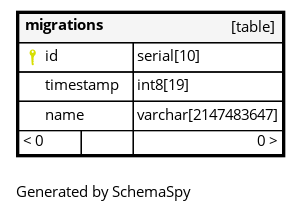
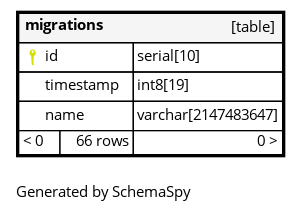
Deploying to gh-pages from @ bcgov/nr-site-registry@6c12e1b2809e61e2eaad4e0fd8826cbcae231017 🚀

Changed region(s): [[0.2392, 0.6226, 0.4485, 0.7075], [0.1794, 0.6226, 0.2093, 0.7358]]

diff --git a/schemaspy/sites/sites/index.html b/schemaspy/sites/sites/index.html
@@ -78,7 +78,7 @@
                         <div class="col-md-12">
                             <div class="callout callout-info">
                                 <h4>SchemaSpy Analysis of postgres.sites</h4>
-                                <p>Generated on Tue Jun 09 22:51 GMT 2026</p>
+                                <p>Generated on Thu Jun 11 17:38 GMT 2026</p>
                             </div>
                         </div>
                     </div>
@@ -345,7 +345,7 @@
                                         <td class="detail" align="right">0</td>
                                         <td class="detail" align="right">0</td>
                                         <td class="detail" align="right">4</td>
-                                        <td class="detail" align="right">-1</td>
+                                        <td class="detail" align="right">3266</td>
                                         <td class="detail" align="right">Table</td>
                                         <td class="comment detail" style="display: table-cell;"></td>
                                     </tr>
@@ -363,7 +363,7 @@
                                         <td class="detail" align="right">0</td>
                                         <td class="detail" align="right">0</td>
                                         <td class="detail" align="right">3</td>
-                                        <td class="detail" align="right">-1</td>
+                                        <td class="detail" align="right">66</td>
                                         <td class="detail" align="right">Table</td>
                                         <td class="comment detail" style="display: table-cell;"></td>
                                     </tr>

diff --git a/schemaspy/sites/sites/tables/places.html b/schemaspy/sites/sites/tables/places.html
@@ -73,7 +73,7 @@
             <div class="content-wrapper">
                 <!-- Content Header (Page header) -->
                 <section class="content-header">
-                    <h1>places</h1><p><span id="recordNumber">-1</span> rows</p><br />
+                    <h1>places</h1><p><span id="recordNumber">3266</span> rows</p><br />
                 </section>
                 <!-- Main content -->
                 <section class="content">
@@ -234,7 +234,7 @@
                                 <div class="tab-content no-padding">
                                     <div class="chart tab-pane active" id="oneDegreeImg-chart" style="position: relative; overflow-x:auto;">
                                         <map id="oneDegreeRelationshipsDiagram" name="oneDegreeRelationshipsDiagram">
-<area shape="rect" id="node1" href="places.html" target="_top" title="places" alt="" coords="5,5,272,192">
+<area shape="rect" id="node1" href="places.html" target="_top" title="places" alt="" coords="5,5,292,192">
 </map>
                                         <a name='diagram'><img id="oneDegreeImg" src="../diagrams/tables/places.1degree.png" usemap="#oneDegreeRelationshipsDiagram" class="diagram" border="0" align="left"></a>
                                     </div>

diff --git a/schemaspy/sites/sites/orphans.html b/schemaspy/sites/sites/orphans.html
@@ -91,7 +91,7 @@
 <area shape="rect" id="node2" href="tables/lto_download.html" target="_top" title="lto_download" alt="" coords="61,3425,388,3700">
 <area shape="rect" id="node3" href="tables/lto_prev_download.html" target="_top" title="lto_prev_download" alt="" coords="61,3133,388,3408">
 <area shape="rect" id="node4" href="tables/migrations.html" target="_top" title="migrations" alt="" coords="79,2959,370,3116">
-<area shape="rect" id="node5" href="tables/places.html" target="_top" title="places" alt="" coords="91,2755,358,2941">
+<area shape="rect" id="node5" href="tables/places.html" target="_top" title="places" alt="" coords="81,2755,368,2941">
 <area shape="rect" id="node6" href="tables/plan_table.html" target="_top" title="plan_table" alt="" coords="69,2169,380,2737">
 <area shape="rect" id="node7" href="tables/site_profile_owners.html" target="_top" title="site_profile_owners" alt="" coords="38,1936,411,2152">
 <area shape="rect" id="node8" href="tables/site_registry.html" target="_top" title="site_registry" alt="" coords="62,1673,387,1919">

diff --git a/schemaspy/sites/sites/tables/migrations.html b/schemaspy/sites/sites/tables/migrations.html
@@ -73,7 +73,7 @@
             <div class="content-wrapper">
                 <!-- Content Header (Page header) -->
                 <section class="content-header">
-                    <h1>migrations</h1><p><span id="recordNumber">-1</span> rows</p><br />
+                    <h1>migrations</h1><p><span id="recordNumber">66</span> rows</p><br />
                 </section>
                 <!-- Main content -->
                 <section class="content">

diff --git a/schemaspy/sites/index.html b/schemaspy/sites/index.html
@@ -49,7 +49,7 @@
                 <section class="content-header">
                     <div class="callout callout-info">
                         <h4>SchemaSpy Analysis of postgres</h4>
-                        <p>Generated on Tue Jun 09 22:51 GMT 2026</p>
+                        <p>Generated on Thu Jun 11 17:39 GMT 2026</p>
                     </div>
                 </section>
                 <!-- Main content -->
